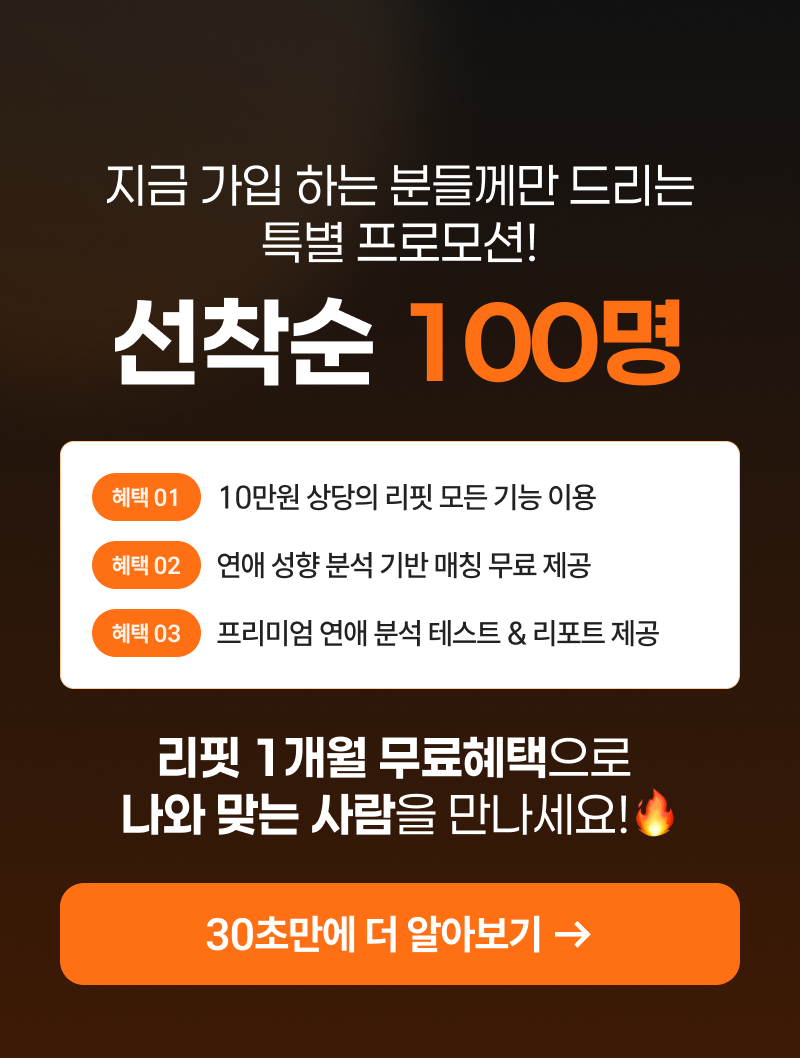
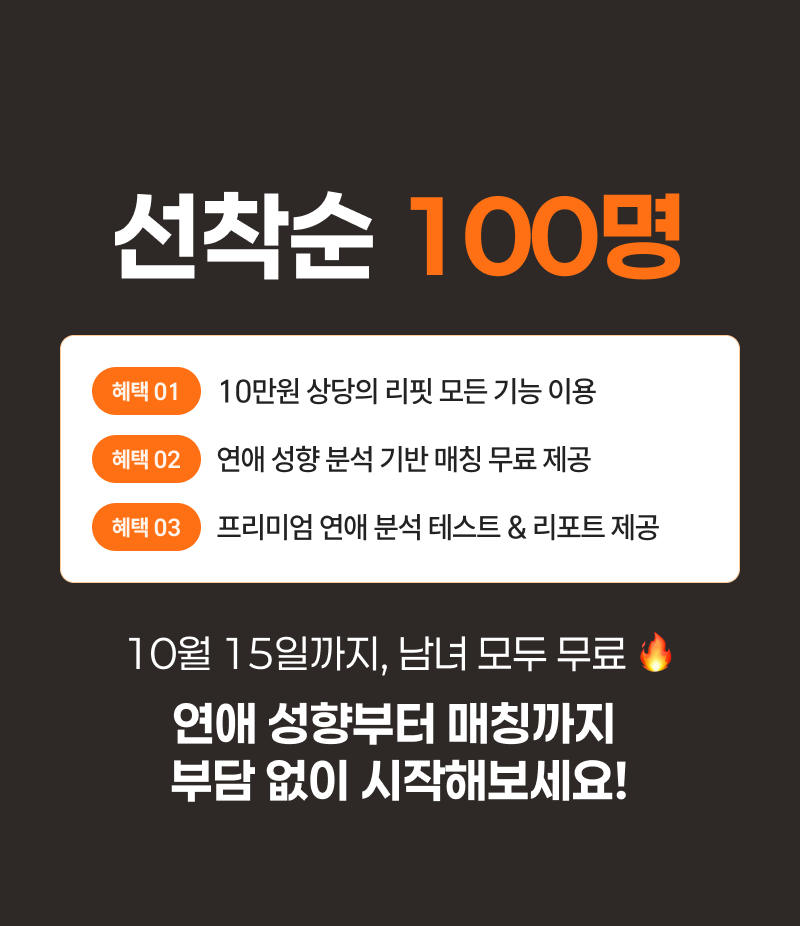
feat: 프로모션 섹션 이미지 교체 및 30초만에 더 알아보기 버튼 모달 연동

diff --git a/components/landing/LandingPage.tsx b/components/landing/LandingPage.tsx
@@ -16,8 +16,10 @@ export default function LandingPage() {
   const [viewerCount, setViewerCount] = useState(18);
   const [isVisible, setIsVisible] = useState(true);
   const [lastScrollY, setLastScrollY] = useState(0);
+  const [isModalOpen, setIsModalOpen] = useState(false);
 
   useEffect(() => {
+    // eslint-disable-next-line react-hooks/set-state-in-effect
     setMounted(true);
     setViewerCount(Math.floor(Math.random() * 6) + 15);
   }, []);
@@ -113,11 +115,34 @@ export default function LandingPage() {
           alt="리핏 서비스 소개"
           className="h-auto w-full max-w-[564px]"
         />
-        <Image
-          src={image5}
-          alt="사전신청 프로모션 섹션"
-          className="h-auto w-full max-w-[564px]"
-        />
+        <div className="relative w-full max-w-[564px] bg-[#2E2926] [container-type:inline-size]">
+          <Image
+            src={image5}
+            alt="사전신청 프로모션 섹션"
+            className="h-auto w-full max-w-[564px]"
+          />
+          <div className="w-full px-[7.6%] pb-10 sm:pb-14">
+            <button
+              type="button"
+              onClick={() => setIsModalOpen(true)}
+              className="flex w-full cursor-pointer items-center justify-center gap-2 rounded-2xl bg-[#ff7014] py-3.5 text-[clamp(19px,4.5cqw,48px)] font-bold leading-none text-white shadow-[0_8px_24px_rgba(255,112,20,0.35)] transition-all duration-200 hover:bg-[#e66010] active:bg-[#e66010] sm:py-5"
+            >
+              <span>30초만에 더 알아보기</span>
+              <svg
+                className="h-[0.9em] w-[0.9em] shrink-0 translate-y-[-0.5px]"
+                viewBox="0 0 24 24"
+                fill="none"
+                stroke="currentColor"
+                strokeWidth="3"
+                strokeLinecap="round"
+                strokeLinejoin="round"
+                aria-hidden="true"
+              >
+                <path d="M5 12h14M13 5l7 7-7 7" />
+              </svg>
+            </button>
+          </div>
+        </div>
         <Image
           src={footer}
           alt="푸터"
@@ -127,7 +152,7 @@ export default function LandingPage() {
       </section>
       </main>
 
-      <FormModalTrigger />
+      <FormModalTrigger open={isModalOpen} setOpen={setIsModalOpen} />
     </>
   );
 }

diff --git a/components/landing/FormModalTrigger.tsx b/components/landing/FormModalTrigger.tsx
@@ -30,8 +30,18 @@ const FormModal = ({ onClose, children }: { onClose: () => void; children: React
   );
 };
 
-export default function FormModalTrigger() {
-  const [open, setOpen] = useState(false);
+interface FormModalTriggerProps {
+  open?: boolean;
+  setOpen?: (open: boolean) => void;
+}
+
+export default function FormModalTrigger({
+  open: controlledOpen,
+  setOpen: setControlledOpen,
+}: FormModalTriggerProps = {}) {
+  const [internalOpen, setInternalOpen] = useState(false);
+  const open = controlledOpen !== undefined ? controlledOpen : internalOpen;
+  const setOpen = setControlledOpen || setInternalOpen;
   const [checkedQ1, setCheckedQ1] = useState<Record<string, boolean>>({
     "연락/소통 문제": false,
     "상대의 무관심": false,
@@ -66,7 +76,7 @@ export default function FormModalTrigger() {
       document.body.style.overflow = prev;
       window.removeEventListener("keydown", handleEsc);
     };
-  }, [open]);
+  }, [open, setOpen]);
 
   return (
     <>
